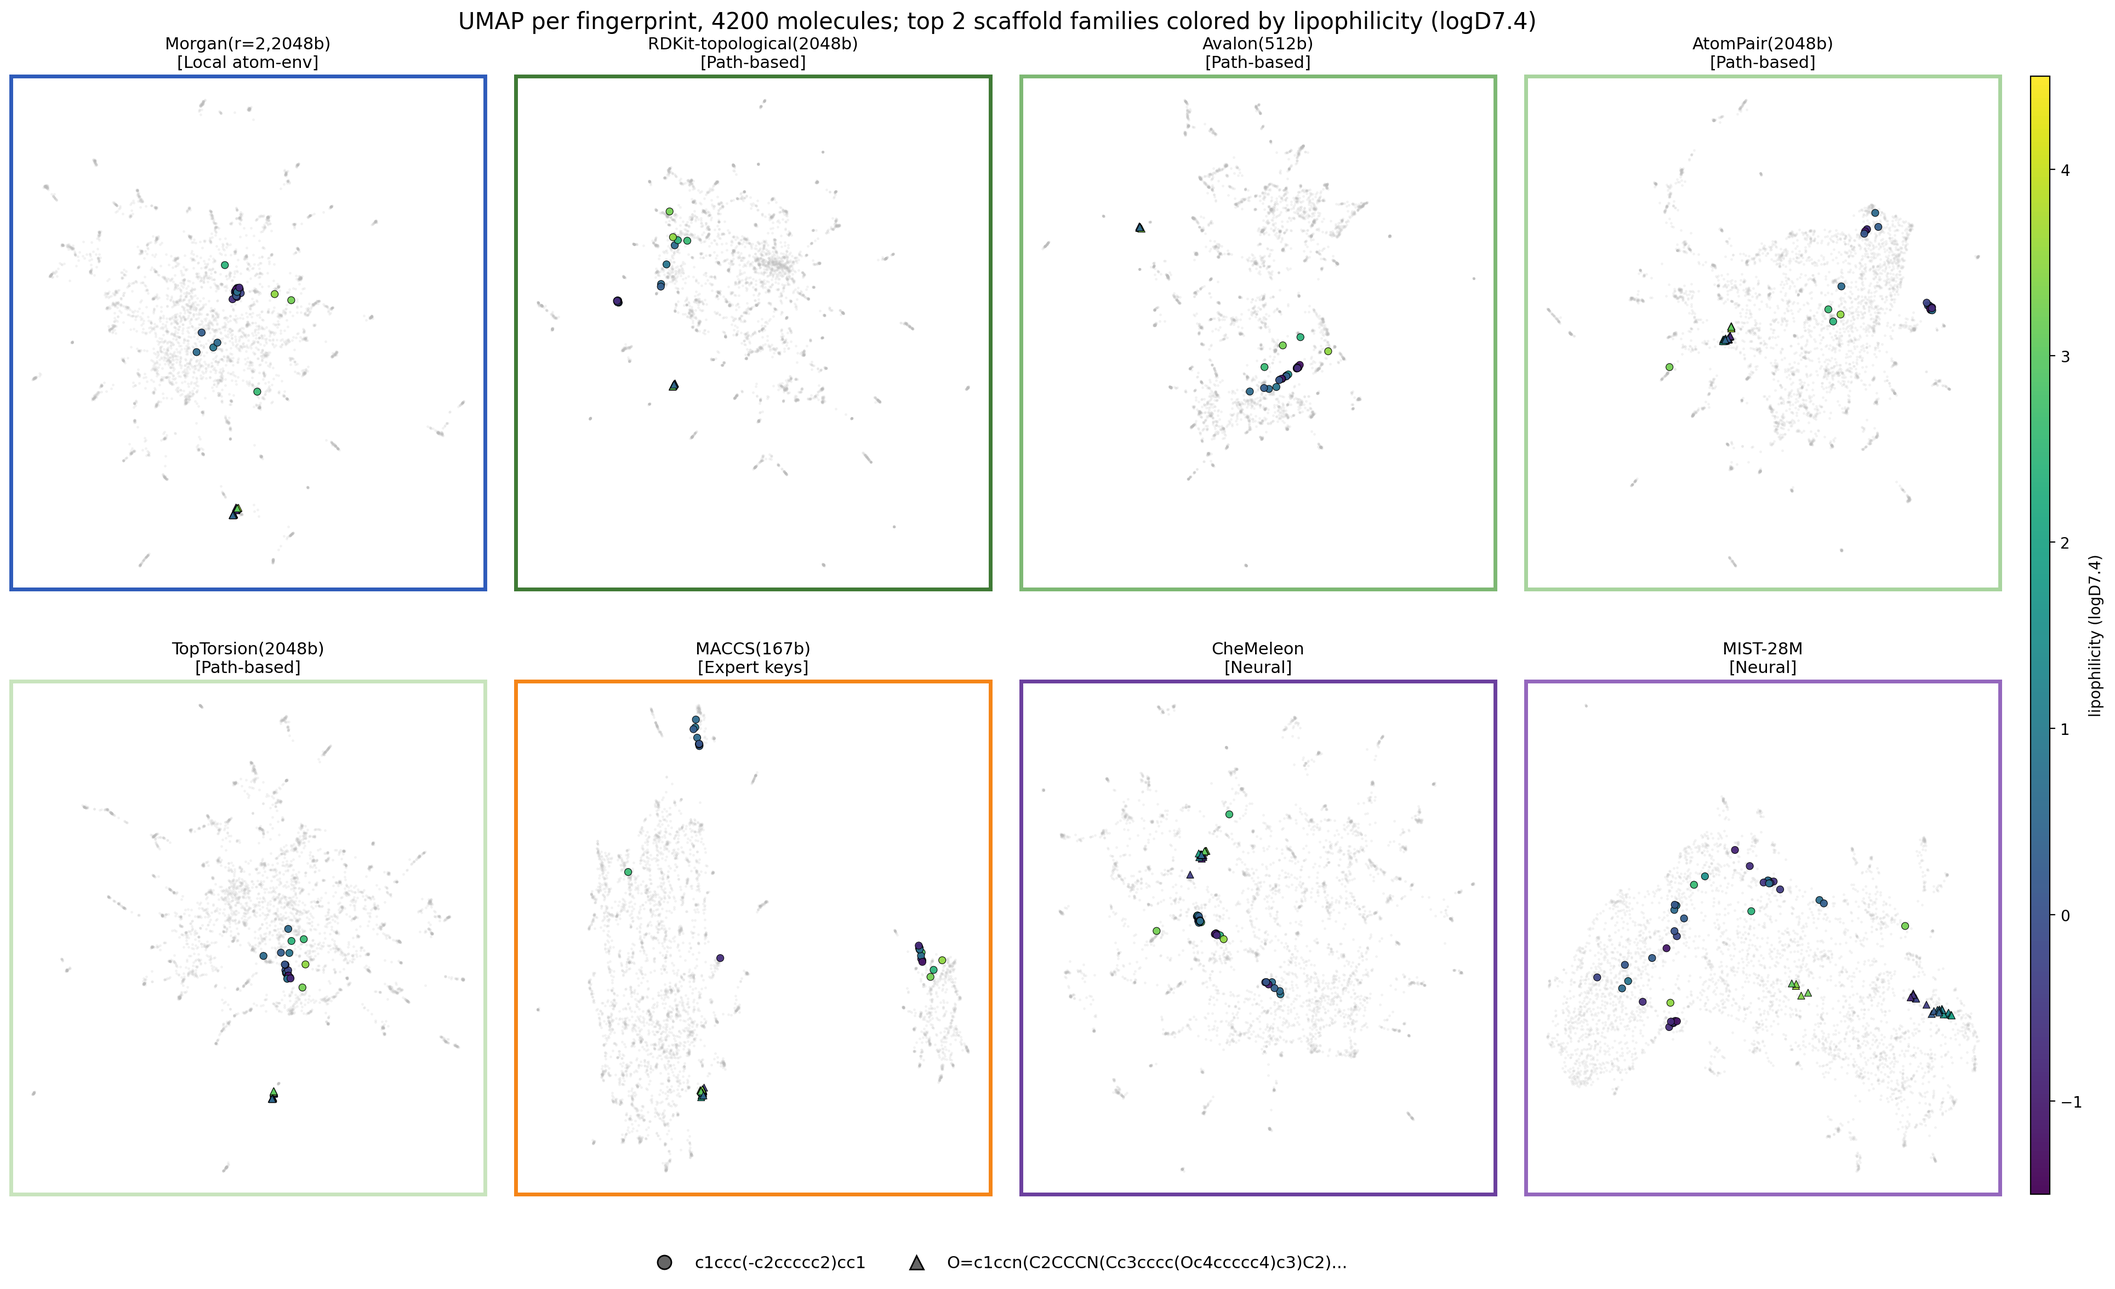
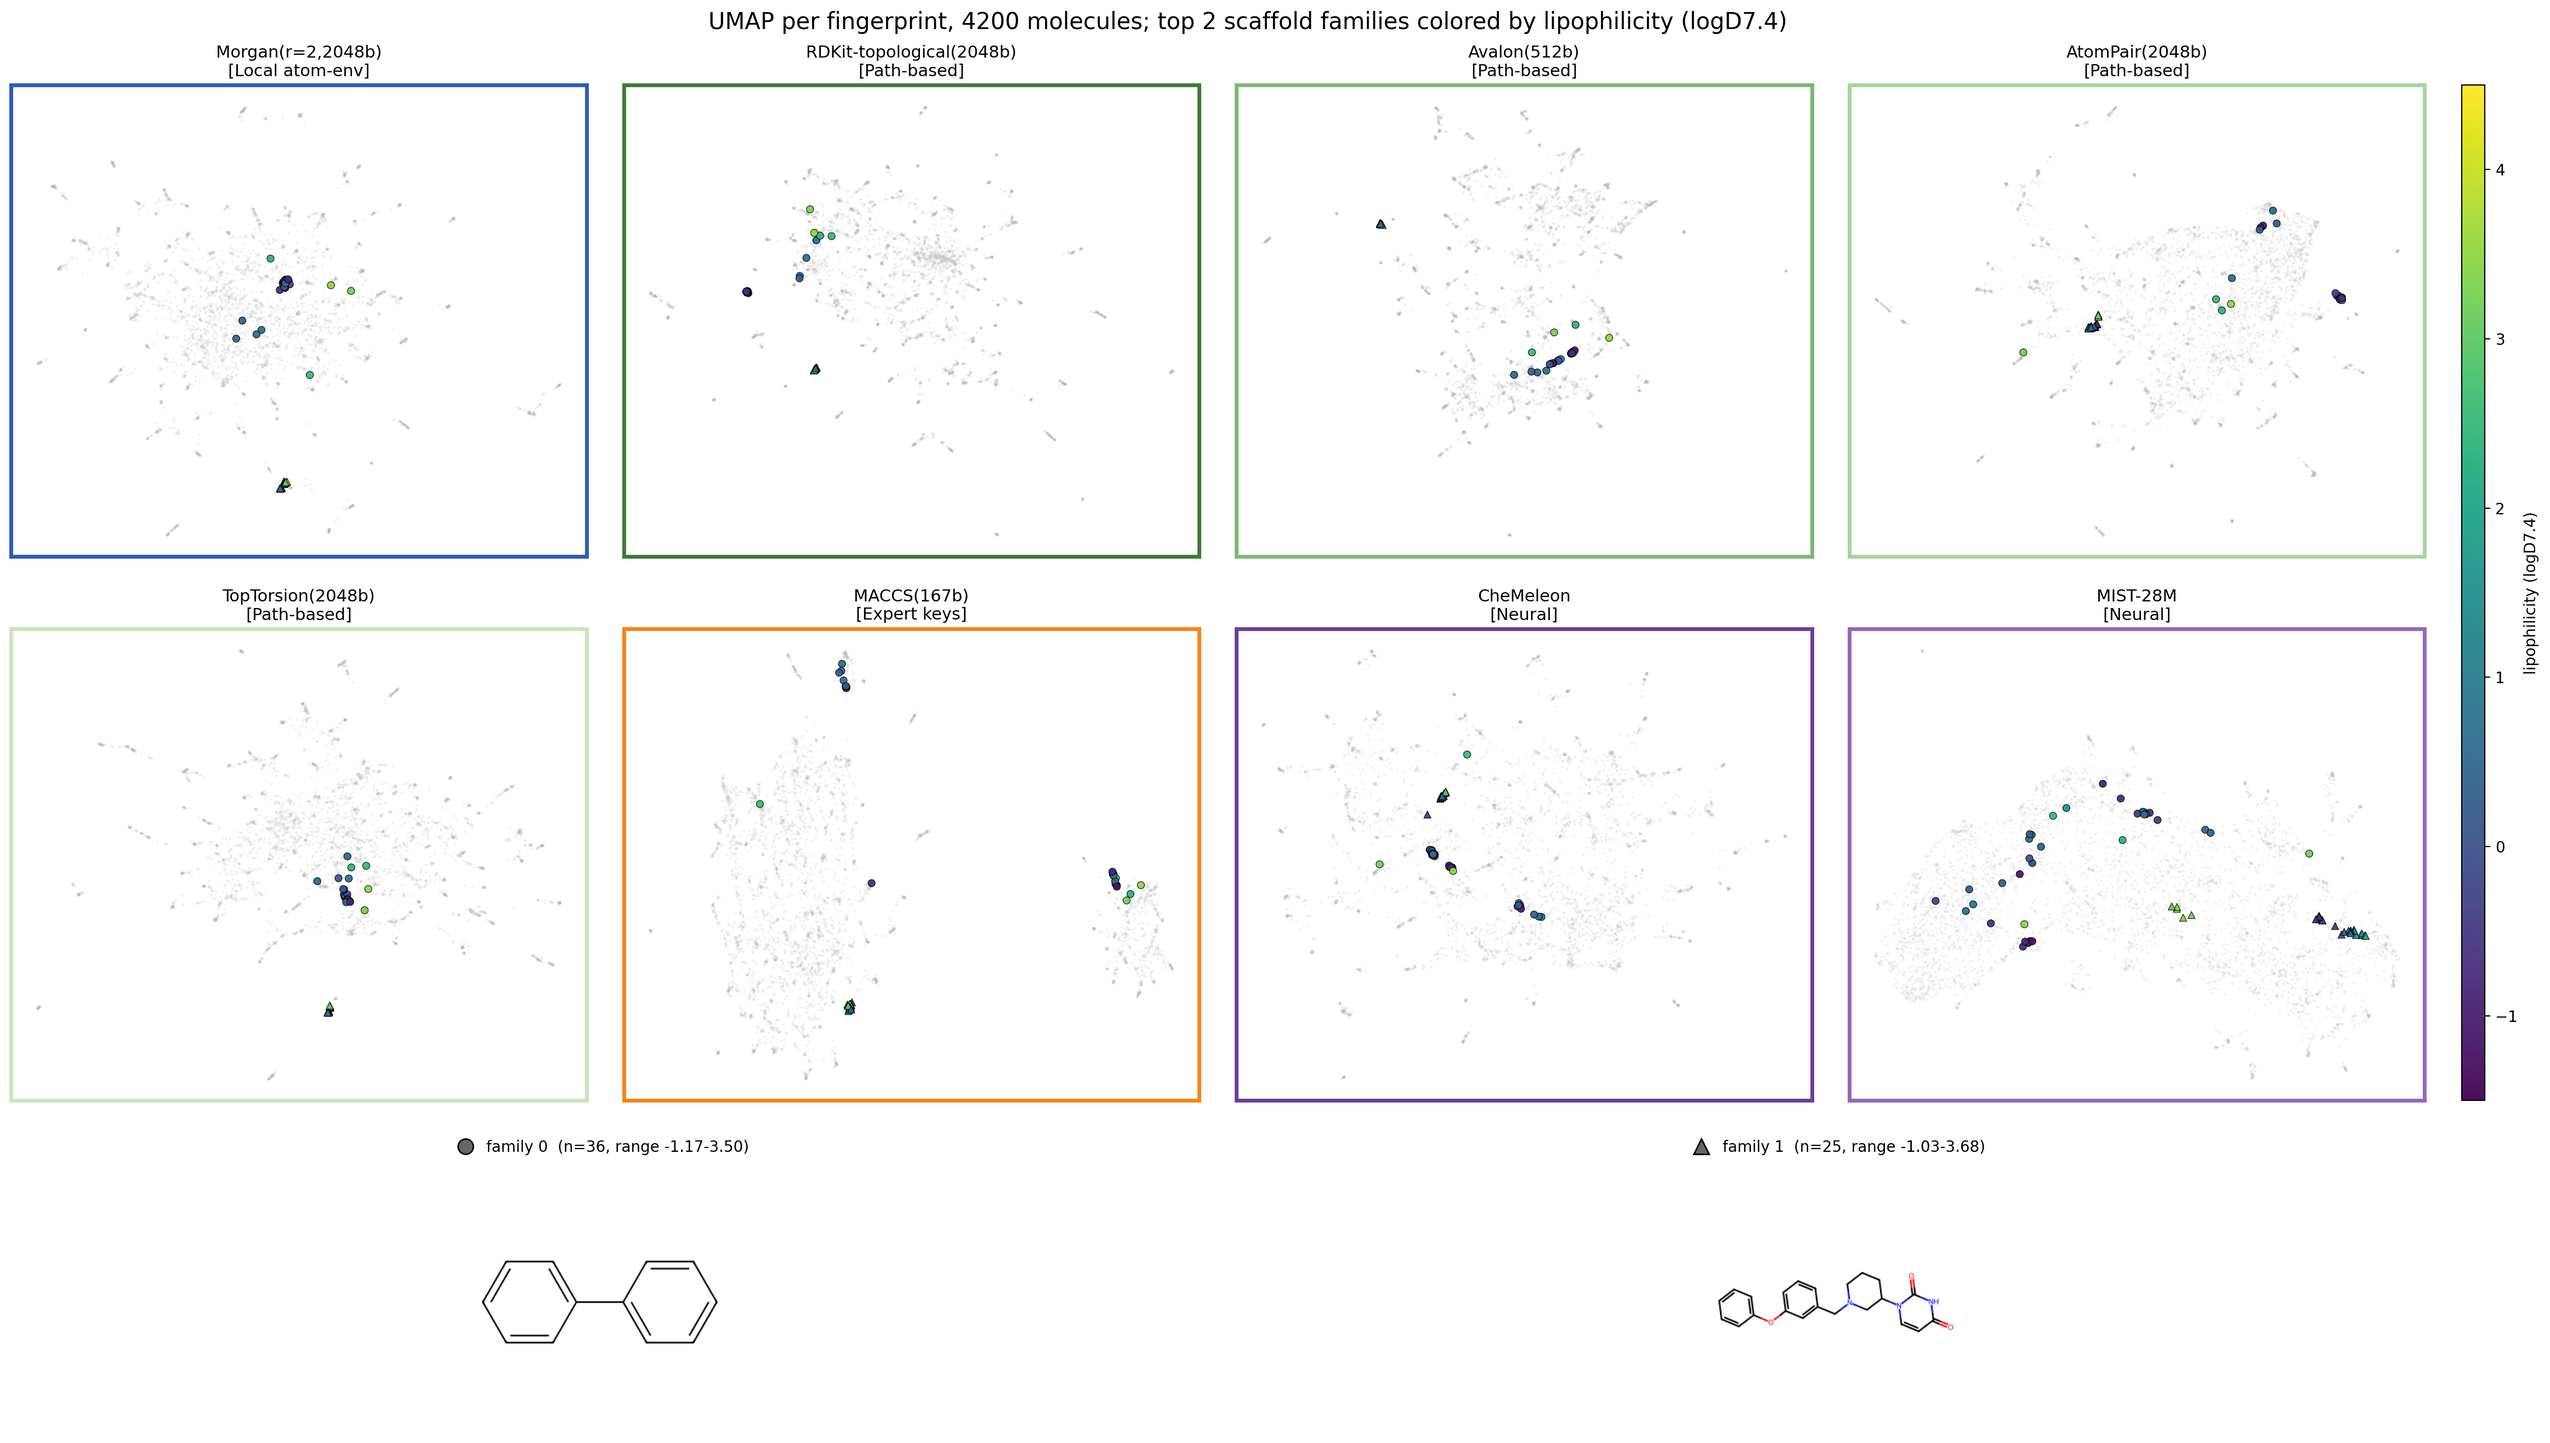
Render scaffolds as mol images in family-overlay legend
Replaces the SMILES strings in the family legend with rendered RDKit mol
drawings, so each family is identified by its actual structure plus a
caption (size + property range / class counts).

Also adds a MACCS-Tanimoto diversity guard to select_top_families: a
candidate is rejected if it's too visually similar to an already-picked
scaffold (e.g. saturated vs. unsaturated A-ring of the same steroid).

diff --git a/src/fingerprints/clustering/scaffolds.py b/src/fingerprints/clustering/scaffolds.py
@@ -233,10 +233,14 @@ def select_top_families(
     becomes "biggest scaffold with class diversity."
 
     Diversity guard: when picking the top n_families in score order, a
-    candidate is rejected if its Morgan(r=2) Tanimoto similarity to any
-    already-selected scaffold exceeds max_pairwise_tanimoto. This prevents
-    selecting two near-duplicate scaffolds (e.g. saturated vs. unsaturated
-    A-ring of the same steroid skeleton).
+    candidate is rejected if its MACCS Tanimoto similarity to any
+    already-selected scaffold exceeds max_pairwise_tanimoto. MACCS is
+    chosen here (rather than Morgan) because the legend renders the
+    scaffolds as drawings, and MACCS captures global ring/pharmacophore
+    features that better track visual similarity than Morgan's local atom
+    environments. This prevents selecting two visually near-duplicate
+    scaffolds (e.g. saturated vs. unsaturated A-ring of the same steroid
+    skeleton).
 
     The min_scaffold_atoms filter exists to skip generic ring catch-alls
     like plain benzene (c1ccccc1, 6 heavy atoms) which match too many
@@ -254,9 +258,9 @@ def select_top_families(
         min_scaffold_atoms: minimum heavy atoms in the scaffold itself
             (filters out generic single-ring scaffolds). Set to 0 to
             disable.
-        max_pairwise_tanimoto: reject a candidate if its Morgan(r=2)
-            Tanimoto similarity to any already-selected scaffold exceeds
-            this. Set to 1.0 to disable.
+        max_pairwise_tanimoto: reject a candidate if its MACCS Tanimoto
+            similarity to any already-selected scaffold exceeds this. Set
+            to 1.0 to disable.
         exclude_acyclic: drop the synthetic acyclic bucket from candidates
             (acyclic molecules are a heterogeneous catch-all, not a real
             chemical family)
@@ -297,19 +301,19 @@ def select_top_families(
 
     candidates.sort(key=lambda t: t[3], reverse=True)
 
-    # greedy diversity-filtered selection. Use Morgan r=2, 2048 bits as
-    # the comparison FP - matches what the rest of the project uses.
-    from rdkit.Chem import rdFingerprintGenerator
+    # greedy diversity-filtered selection. Use MACCS keys (167 bits, ring-
+    # and pharmacophore-aware) as the comparison FP because the goal here
+    # is *visual* distinctness of the scaffold drawings - MACCS captures
+    # global ring/pharmacophore features rather than Morgan's local atom
+    # environments, so e.g. saturated vs. unsaturated A-ring on the same
+    # steroid skeleton score as similar (which they look).
+    from rdkit.Chem.MACCSkeys import GenMACCSKeys
     from rdkit.DataStructs import TanimotoSimilarity
-
-    morgan_gen = rdFingerprintGenerator.GetMorganGenerator(
-        radius=2, fpSize=2048
-    )
 
     chosen: list[tuple[str, int, float, float]] = []
     chosen_fps = []
     for s, size, prange, score, mol in candidates:
-        fp = morgan_gen.GetFingerprint(mol)
+        fp = GenMACCSKeys(mol)
         too_similar = False
         for prev_fp in chosen_fps:
             if TanimotoSimilarity(fp, prev_fp) > max_pairwise_tanimoto:
@@ -317,7 +321,7 @@ def select_top_families(
                 break
         if too_similar:
             logger.info(
-                f"skipped near-duplicate (Tanimoto > "
+                f"skipped near-duplicate (MACCS Tanimoto > "
                 f"{max_pairwise_tanimoto}): scaffold={s}"
             )
             continue
